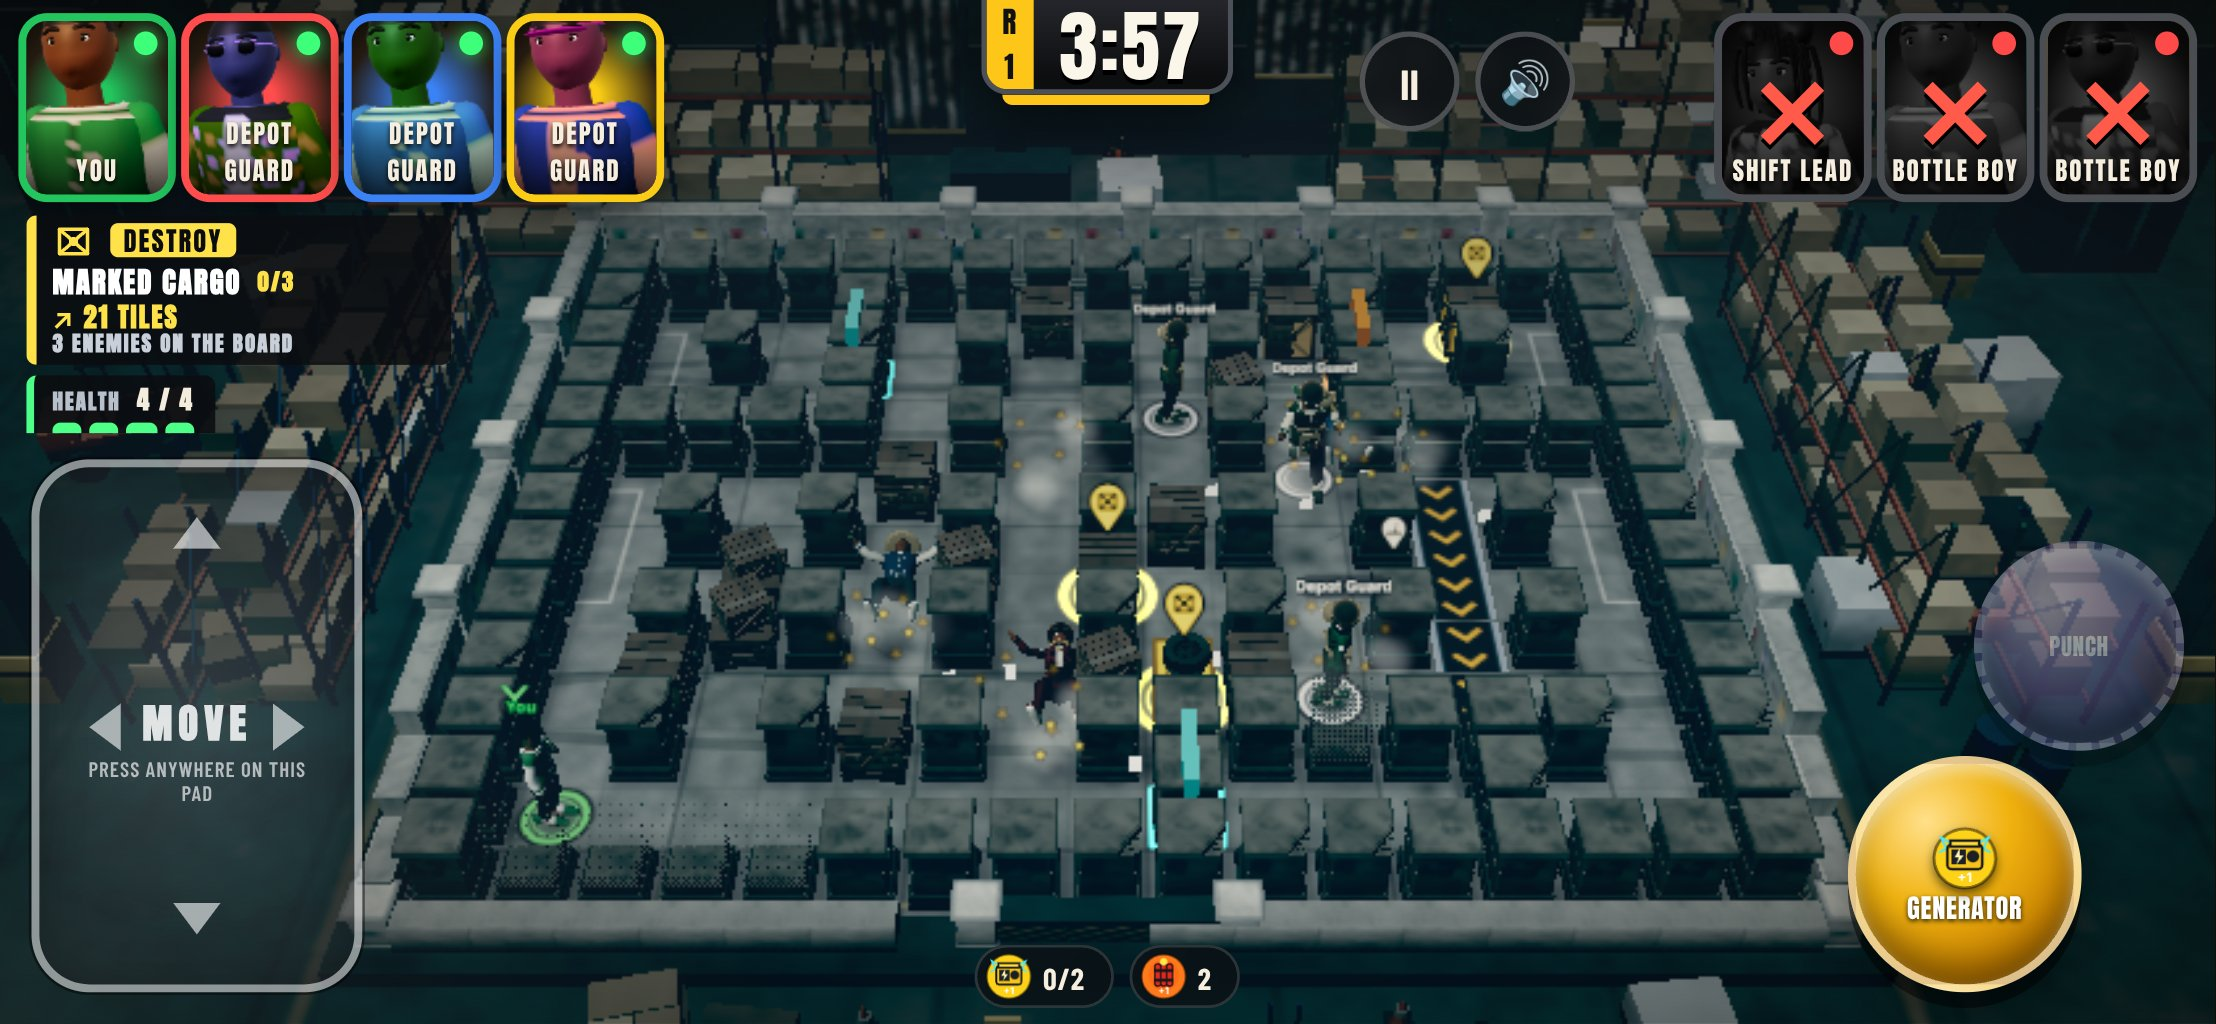
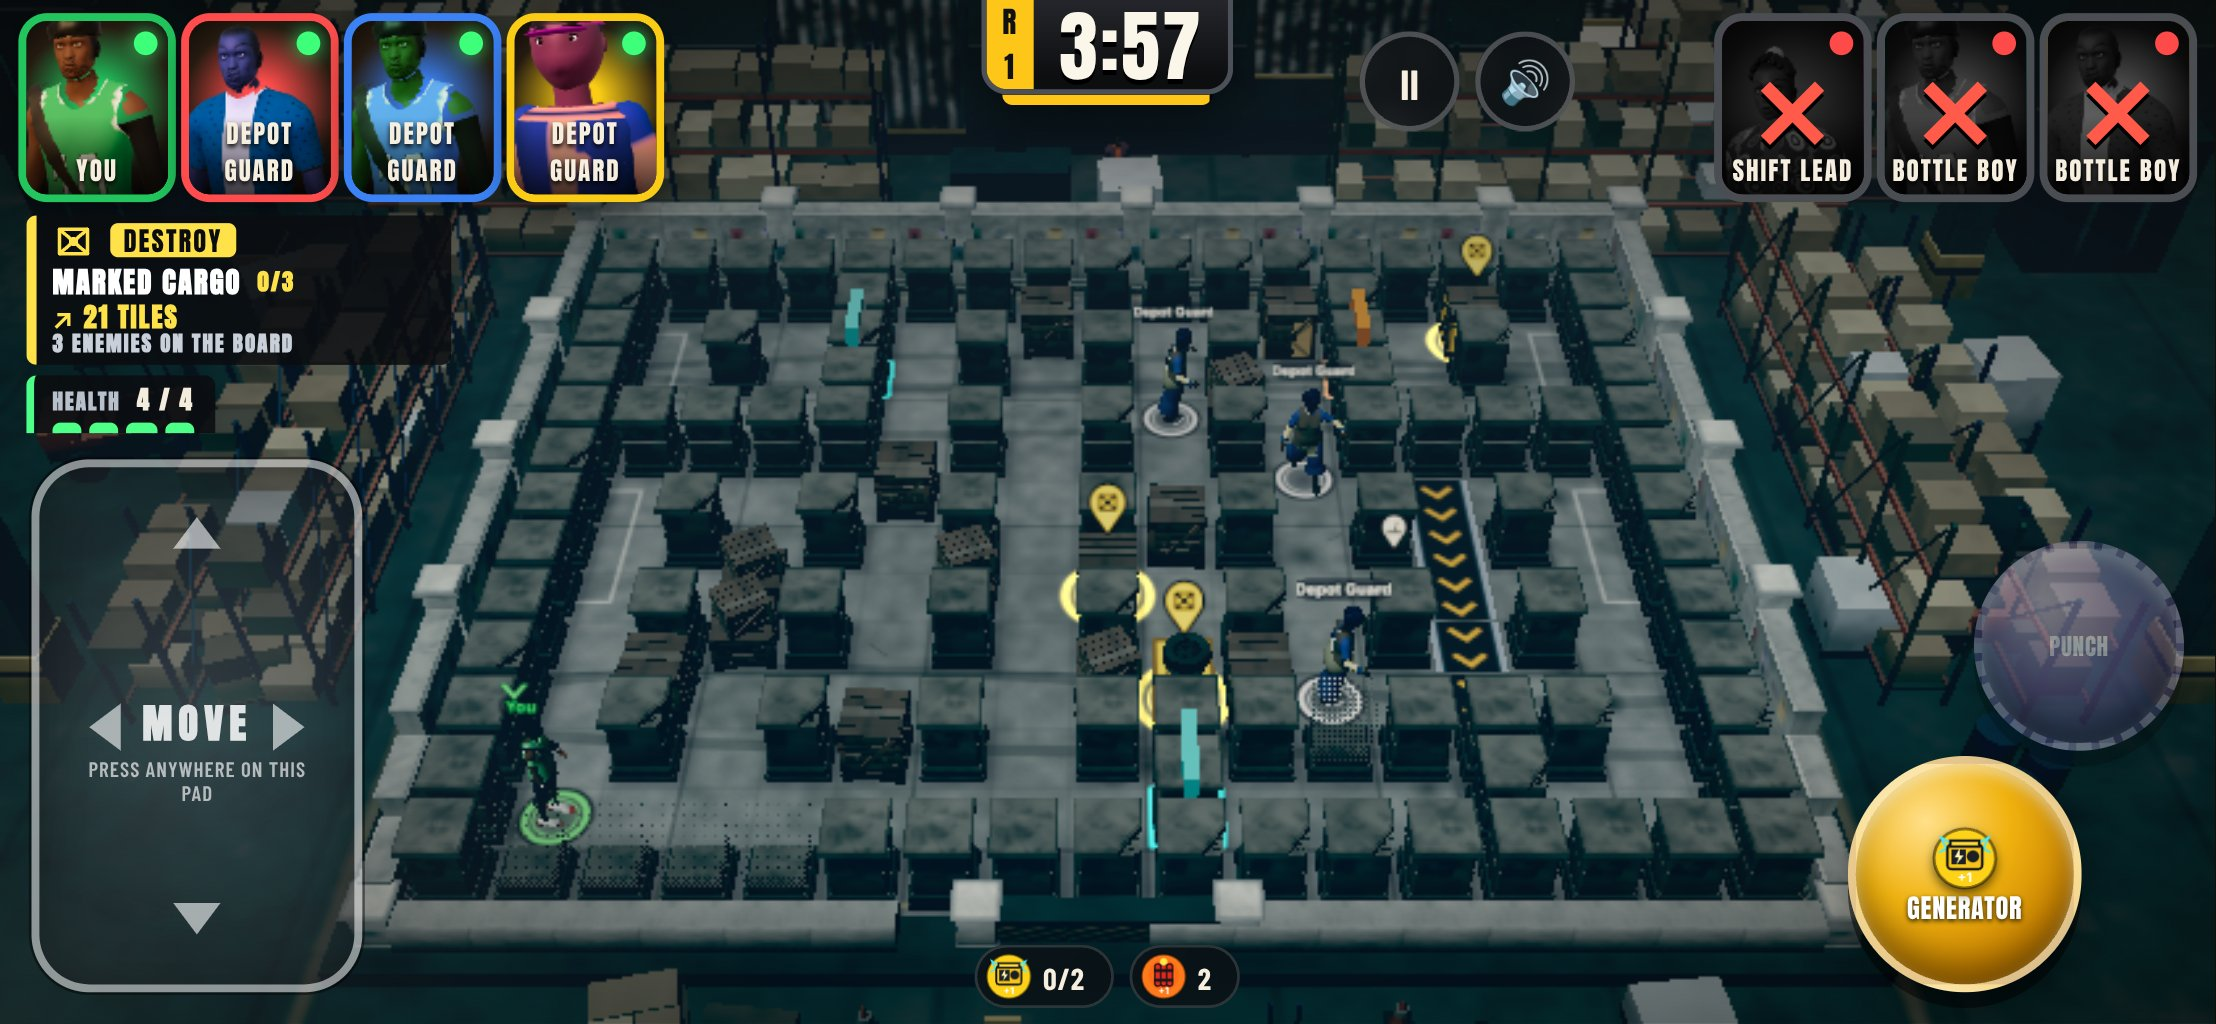
Docs: release integration report and conventions [skip ci]
Claude-Session: https://claude.ai/code/session_01QeTP4yfJfvzQ1TfQbTJU26

diff --git a/docs/RELEASE_INTEGRATION.md b/docs/RELEASE_INTEGRATION.md
@@ -1,0 +1,58 @@
+# Release integration: Classic raid AI + night lighting with the 18-character roster
+
+Founder-authorised development release (2026-11-21): a playable build for evaluation, **not** final artistic approval of
+the character models. Decisions RI1-RI5 (docs/DECISIONS.md). Previous release for rollback: `514be88`.
+
+## Sources
+
+| Branch | Head | What |
+| --- | --- | --- |
+| `claude/wahala-stitch-uiux-v1` (production) | `514be88` | base |
+| `claude/wahala-classic-ai-lighting-v1` | `50666d2` | raid AI (RA1-RA7), raid art fix and night raid (NL1-NL15) |
+| `ccr-5b343a94-mqq1vh` | `9ae45c6` | 18 rigged characters, enemy clips, lazy loading, fallbacks |
+
+Both branches were based on `514be88`; both were merged unchanged (histories kept) into `claude/wahala-release-integration`.
+One conflict: `scripts/campaign-perf.mjs` (each branch added a URL-flag variable to the same line; both kept).
+
+## Integration fixes (render / loading only; no rule, timing or AI change)
+
+- **RI2** The roster branch's failing CI gate (restart textures +10, limit 3) was a real leak: a seat re-dressed when its
+  on-demand model arrived kept its old skeleton's bone texture; and re-dressed seats off camera were never drawn until
+  they walked on screen. Fixed at the cause; thresholds unchanged. Six starts A A B A B A: textures 140 140 159 161 159 161.
+- **RI1** The loading screen waits (at most 6 s) for the on-demand models the match's first frames asked for: no swap from
+  the fallback look to the new model in front of the player.
+- **RI5** A figure created for a seat that is already down starts hidden: unspawned raid waves no longer replay a death
+  tumble at match start (in the night raid that showed where hidden waves wait).
+- **RI4** Raid enemies drive the new models' Walk / Run / Alert clips through the raid AI's territory minds (pinned by a test).
+- **RI3** Temporary founder QA entry `?qaraid=` (docs/QA_ENTRY.md, removal steps).
+
+## Measurements (software WebGL in a shared container: never a phone measurement)
+
+Phone 844 x 390, Low, after 900 live ticks (`scripts/release-shots.mjs`, screenshots in `docs/screenshots/release-integration/`):
+
+| Scenario | Draw calls | Triangles | Textures | Models loaded | Errors / failed loads |
+| --- | --- | --- | --- | --- | --- |
+| Dispatch Depot raid | 192 | 290,567 | 149 | 7 | 0 / 0 |
+| Records Vault, night | 194 | 246,749 | 151 | 7 | 0 / 0 |
+| Oshodi approach (field) | 163 | 491,050 | 164 | 7 | 0 / 0 |
+| Oshodi boss | 301 | 865,357 | 188 | 5 | 0 / 0 |
+| City Rumble Survival (16) | 414 | 1,740,489 | 295 | 4 | 0 / 0 |
+
+Downloads (`scripts/campaign-perf.mjs`, Low): initial load 20,607 KB (14,552 KB gzip) against 19,938 KB before (+0.7 MB:
+larger hero models). On-demand models per start: Oshodi approach 3.9 MB, Records Vault 3.8 MB (0.56 MB before), Oshodi
+boss 2.0 MB. JavaScript gzip 868,682 -> 877,671 B. `dist` 85.4 -> 103.8 MB (character GLBs 3.9 -> 22.3 MB, mostly lazy).
+
+GPU memory: each new model carries one or two 1024 px textures (about 5.6-11 MB on the GPU with mipmaps); a mission
+holds 5-7 models (about 30-40 MB). Loaded models stay cached for the session (by design of the roster's lazy loading), so a
+session that visits every district can reach about 108 MB of character textures. Not changed in this release (no texture
+reduction across the roster, per the founder); a per-match GPU eviction of unused on-demand models is the measured next
+step if phones show memory pressure. Frame times on this machine are dominated by software rendering and are not
+comparable; physical-phone performance is subject to founder acceptance.
+
+## Verification before the release CI
+
+- Typecheck, ESLint (src, tests, scripts, e2e), production build: pass.
+- Vitest, the whole suite: 302 files, 4701 passed, 7 skipped (before RI5; RI5 adds one file).
+- Playwright (targeted, built preview, desktop + phone): `qa-entry`, `night-raid`, `raid-render`, `campaign-camera`
+  (including the GPU restart gate), `mobile-hud-fit`, `campaign-expansion-smoke`, `checkpoint-clarity`: all pass; two
+  field-to-raid tests needed the CI timeout (300 s) under this container's load and pass alone with it.

diff --git a/CLAUDE.md b/CLAUDE.md
@@ -75,3 +75,4 @@ Browser-only, offline, single-player (1 human vs 1-3 bots) Nigerian-inspired Bom
 - `enemySeesPerson` (`systems/sight.ts`) is the one person-sight rule; a light term may change only its range, never the line rule. `Player.facing` is the view / torch direction.
 - Raid art is registered under the SIM arena id (`raidWarehouseDispatchDepot`, ...), tested on a real game of every raid; lit raids must stay at least as readable as Danfo Bus Park on the same preset (`tests/render/classic-readability.test.ts`).
 - Night raids are data (`RaidDef.lighting`; only the Records Vault). Lit tiles are a pure sim rule (`sim/raid/light.ts`); the darkness is the grit patch's per-tile mask, never shadows or new dynamic lights. Quality never changes what is lit; danger lanes and warnings stay above the dark; no flashlight button (two buttons only). Detection (`systems/nightSight.ts`) applies to calm guards only, inside their own drawn torch cone with line of sight, with a reaction delay; `lighting.detection: false` turns it off.
+- Release integration with the 18-character roster (decisions RI1-RI5, docs/RELEASE_INTEGRATION.md): a seat re-dressed mid-match must release its skeleton; down seats start hidden; the loading screen waits (bounded) for on-demand models. `?qaraid=<raidId>` is a TEMPORARY founder QA entry that never writes the save: remove it per docs/QA_ENTRY.md after the founder's phone tests.
